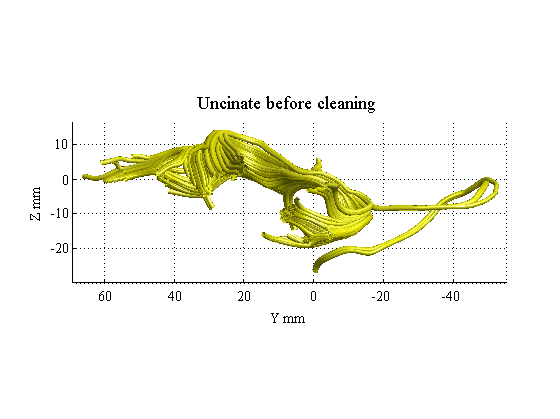
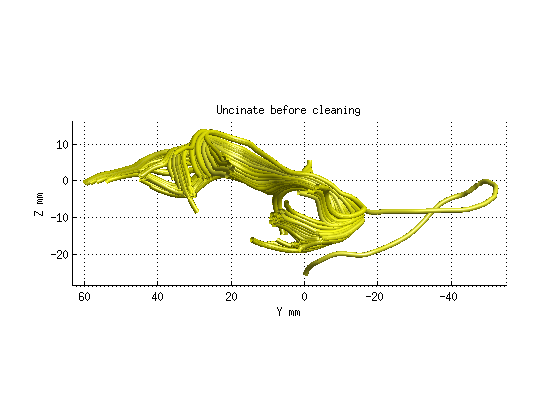
changes to tutorials

diff --git a/tutorials/AFQ_example.html b/tutorials/AFQ_example.html
@@ -99,11 +99,11 @@ b0 = readFileNifti(fullfile(sub_dir,<span class="string">'bin'</span>,<span clas
 AFQ_AddImageTo3dPlot(b0,[-2, 0, 0]);
 </pre><pre class="codeoutput">
 scale=[2.0,2.0,2.0]mm, track=1, interp=1, step=1.0mm, fa=0.20, angle=30.0deg, puncture=0.20, minLength=50.0mm, maxLength=250.0mm
-Tracking 124442 fibers (1556 fibers per tick):
+Tracking 33670 fibers (421 fibers per tick):
 ................................................................................
-32704 fibers passed length threshold of 50.0 (out of 124442 seeds).
-Elapsed time is 72.827790 seconds.
-32704 fibers, mean length 94mm (max 251mm; min 50mm).
+19833 fibers passed length threshold of 50.0 (out of 33670 seeds).
+Elapsed time is 26.902815 seconds.
+19833 fibers, mean length 97mm (max 251mm; min 50mm).
 
 mesh can be rotated with arrow keys
 </pre><img vspace="5" hspace="5" src="AFQ_example_01.png" alt=""> <h2>Step 2: Fiber tract segmentation<a name="3"></a></h2><pre class="codeinput"><span class="comment">% Segment the whole-brain fiber group into 20 fiber tracts</span>
@@ -135,8 +135,6 @@ AFQ_RenderFibers(fg_classified(19),<span class="string">'numfibers'</span>,400,<
 AFQ_AddImageTo3dPlot(b0,[-2, 0, 0]);
 </pre><pre class="codeoutput">You chose to recompute ROIs
 Fibers that get as close to the ROIs as 2mm will become candidates for the Mori Groups
-Direct calls to spm_defauts are deprecated.
-Please use spm('Defaults',modality) or spm_get_defaults instead.
 Smoothing by 0 &amp; 8mm..
 Coarse Affine Registration..
 Fine Affine Registration..
@@ -158,7 +156,7 @@ Fine Affine Registration..
  iteration 15:  FWHM =  9.696 Var = 1.57881
  iteration 16:  FWHM =  9.697 Var = 1.57881
 Computing inverse deformation...
-dtiCleanFibers: Keeping 32549 out of 32704 fibers.
+dtiCleanFibers: Keeping 19727 out of 19833 fibers.
 dtiSplitInterhemisphericFibers: Splitting every fiber below Z=-10 
 
 mesh can be rotated with arrow keys
@@ -214,51 +212,51 @@ title(<span class="string">'Uncinate after cleaning'</span>,<span class="string"
     fg_clean(ii) = AFQ_removeFiberOutliers(fg_classified(ii),maxDist,maxLen,numNodes,M,count,maxIter);
 <span class="keyword">end</span>
 </pre><pre class="codeoutput">
-Left Uncinate number of fibers: 227 
-Left Uncinate number of fibers: 213 
+Left Uncinate number of fibers: 110 
+Left Uncinate number of fibers: 106 
 mesh can be rotated with arrow keys
 
 mesh can be rotated with arrow keys
 
-Left Thalamic Radiation number of fibers: 347 
-Left Thalamic Radiation number of fibers: 313 
-Right Thalamic Radiation number of fibers: 408 
-Right Thalamic Radiation number of fibers: 370 
-Left Corticospinal number of fibers: 1038 
-Left Corticospinal number of fibers: 971 
-Right Corticospinal number of fibers: 1310 
-Right Corticospinal number of fibers: 1266 
-Left Cingulum Cingulate number of fibers: 119 
-Left Cingulum Cingulate number of fibers: 106 
-Right Cingulum Cingulate number of fibers: 49 
-Right Cingulum Cingulate number of fibers: 40 
-Left Cingulum Hippocampus number of fibers: 103 
-Left Cingulum Hippocampus number of fibers: 95 
-Right Cingulum Hippocampus number of fibers: 77 
-Callosum Forceps Major number of fibers: 301 
-Callosum Forceps Major number of fibers: 287 
-Callosum Forceps Minor number of fibers: 1198 
-Callosum Forceps Minor number of fibers: 1169 
-Left IFOF number of fibers: 429 
-Left IFOF number of fibers: 390 
-Right IFOF number of fibers: 298 
-Right IFOF number of fibers: 272 
-Left ILF number of fibers: 170 
-Left ILF number of fibers: 159 
-Right ILF number of fibers: 314 
-Right ILF number of fibers: 289 
-Left SLF number of fibers: 216 
-Left SLF number of fibers: 198 
-Right SLF number of fibers: 382 
-Right SLF number of fibers: 367 
-Left Uncinate number of fibers: 227 
-Left Uncinate number of fibers: 213 
-Right Uncinate number of fibers: 491 
-Right Uncinate number of fibers: 460 
-Left Arcuate number of fibers: 378 
-Left Arcuate number of fibers: 349 
-Right Arcuate number of fibers: 214 
-Right Arcuate number of fibers: 198 </pre><img vspace="5" hspace="5" src="AFQ_example_03.png" alt=""> <img vspace="5" hspace="5" src="AFQ_example_04.png" alt=""> <h2>Step 4: Compute tract profiles<a name="5"></a></h2><pre class="codeinput"><span class="comment">% AFQ_ComputeTractProperties will compute diffusion properties (FA, MD, RD,</span>
+Left Thalamic Radiation number of fibers: 260 
+Left Thalamic Radiation number of fibers: 234 
+Right Thalamic Radiation number of fibers: 220 
+Right Thalamic Radiation number of fibers: 202 
+Left Corticospinal number of fibers: 828 
+Left Corticospinal number of fibers: 777 
+Right Corticospinal number of fibers: 1031 
+Right Corticospinal number of fibers: 1009 
+Left Cingulum Cingulate number of fibers: 97 
+Left Cingulum Cingulate number of fibers: 86 
+Right Cingulum Cingulate number of fibers: 14 
+Left Cingulum Hippocampus number of fibers: 29 
+Left Cingulum Hippocampus number of fibers: 28 
+Right Cingulum Hippocampus number of fibers: 23 
+Right Cingulum Hippocampus number of fibers: 21 
+Callosum Forceps Major number of fibers: 262 
+Callosum Forceps Major number of fibers: 251 
+Callosum Forceps Minor number of fibers: 942 
+Callosum Forceps Minor number of fibers: 925 
+Left IFOF number of fibers: 300 
+Left IFOF number of fibers: 273 
+Right IFOF number of fibers: 165 
+Right IFOF number of fibers: 155 
+Left ILF number of fibers: 106 
+Left ILF number of fibers: 101 
+Right ILF number of fibers: 151 
+Right ILF number of fibers: 136 
+Left SLF number of fibers: 115 
+Left SLF number of fibers: 108 
+Right SLF number of fibers: 282 
+Right SLF number of fibers: 272 
+Left Uncinate number of fibers: 110 
+Left Uncinate number of fibers: 106 
+Right Uncinate number of fibers: 251 
+Right Uncinate number of fibers: 238 
+Left Arcuate number of fibers: 262 
+Left Arcuate number of fibers: 241 
+Right Arcuate number of fibers: 99 
+Right Arcuate number of fibers: 90 </pre><img vspace="5" hspace="5" src="AFQ_example_03.png" alt=""> <img vspace="5" hspace="5" src="AFQ_example_04.png" alt=""> <h2>Step 4: Compute tract profiles<a name="5"></a></h2><pre class="codeinput"><span class="comment">% AFQ_ComputeTractProperties will compute diffusion properties (FA, MD, RD,</span>
 <span class="comment">% AD, etc.) at numNodes locations along the trajectory of each fiber tract.</span>
 <span class="comment">% The default of the function is to do this computation for the portion of</span>
 <span class="comment">% the tract spanning between the two defining ROIs.</span>
